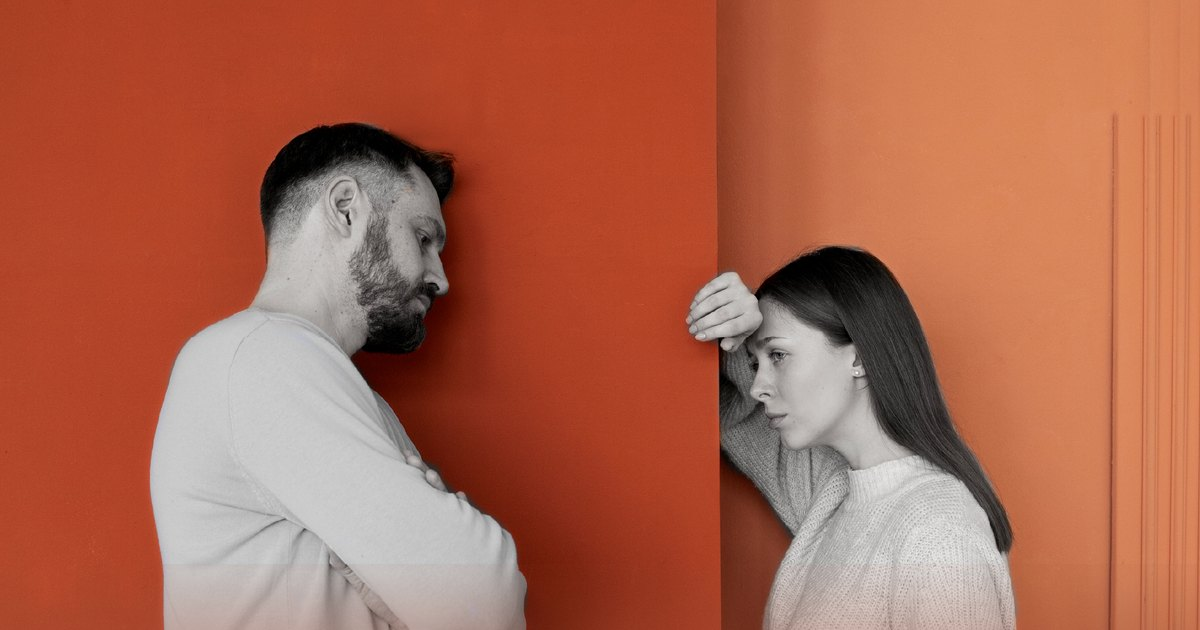
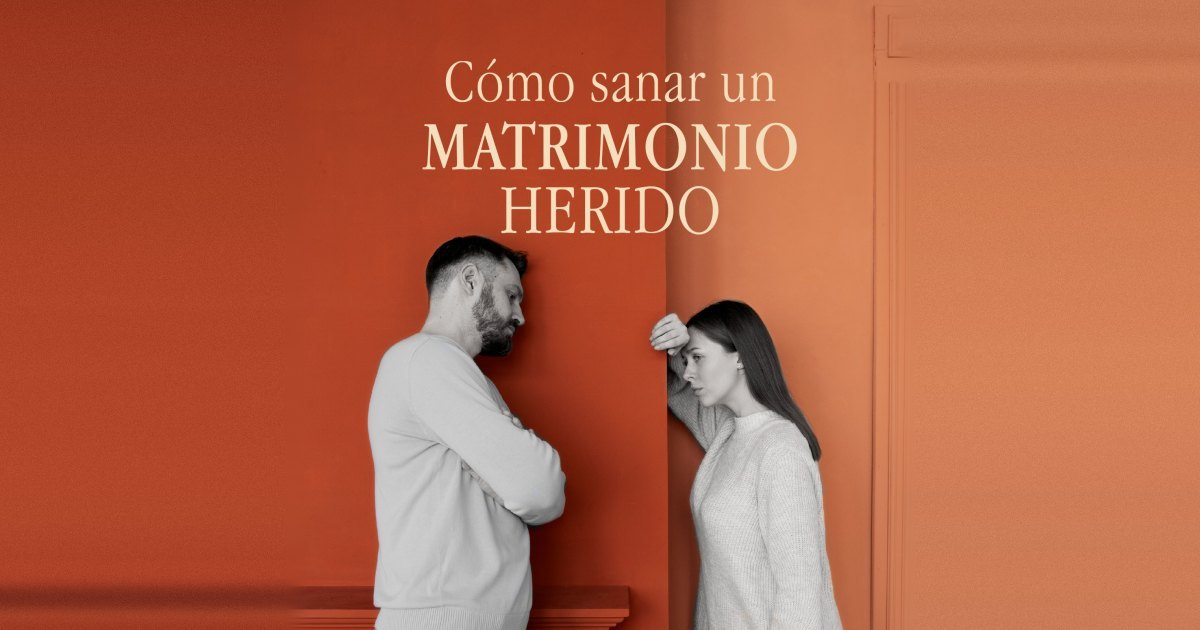
feat(web): /matrimonios, el gancho primero y la miniatura v4 de Diana (#39)
La banda de hechos baja de debajo del hero a después del giro: el orden queda
hero → preguntas → dolor → giro → hechos → fortalezas. Se mueve en el DOM, sin
order de CSS. Las dos og-matrimonios-* son las v4 del insumo. Capturas
actualizadas por la orden #39: solo matrimonios.

diff --git a/apps/web/src/web/matrimonios/Matrimonios.tsx b/apps/web/src/web/matrimonios/Matrimonios.tsx
@@ -23,16 +23,23 @@ import { Cierre } from './Cierre';
  * Se reserva por WhatsApp (la bandera de Mi espacio sigue apagada): el número
  * de México en la cabecera, el menú, el pie y los botones principales; el de
  * otros países en «Desde otro país» del cierre.
+ *
+ * ── El gancho primero (orden #39, 3; pedido de Armando, D23) ─────────────
+ * Lo primero que se lee después del hero son las preguntas y el dolor; lo
+ * descriptivo va más abajo. La banda de hechos baja de debajo del hero a
+ * después del giro, antes de las fortalezas. Un solo orden en todos los anchos
+ * y en el DOM (sin `order` de CSS): el lector de pantalla lee lo mismo que el
+ * ojo. «Ver el programa ↓» sigue yendo a `#programa`.
  */
 export function Matrimonios() {
   const { t } = useTranslation();
   return (
     <Marco pagina="matrimonios" mensaje={t(CLAVE_MENSAJE_MATRIMONIOS)}>
       <Hero />
-      <Hechos />
       <Mirarse />
       <Dolor />
       <Giro />
+      <Hechos />
       <Fortalezas />
       <Frases />
       <Facilitador />

diff --git a/apps/web/src/web/matrimonios/Hechos.tsx b/apps/web/src/web/matrimonios/Hechos.tsx
@@ -9,6 +9,11 @@ import { Icono } from '../comun/Icono';
  * Inicia, horario, modalidad y duración, en el orden de la orden. Los íconos
  * son los de la casa: el calendario, el reloj, la sesión (el mismo que
  * «Modalidad» en `/merida`) y el birrete de «Formación» para los seis meses.
+ *
+ * Desde la #39 (§3) no va debajo del hero sino después del giro, antes de las
+ * fortalezas: lo descriptivo baja y el gancho sube. Queda entre el blanco del
+ * giro y el crema de las fortalezas, así que el borde lo sigue poniendo el
+ * cambio de color.
  */
 export function Hechos() {
   const { t } = useTranslation();

diff --git a/docs/informes/39/LEEME.md b/docs/informes/39/LEEME.md
@@ -1,23 +1,29 @@
-# Web · Orden Códice #39: `/matrimonios`, «El dolor…» en espejo y la miniatura v3
+# Web · Orden Códice #39: `/matrimonios`, el gancho primero, «El dolor…» en espejo y la miniatura de Diana
 
 Rama `web/39-matrimonios-dolor-y-miniatura`, desde `main` (`c984ed7`). Toca `apps/web` y una clave de `web.json` (el alt de la foto nueva).
 
 **Qué se hizo**
-- **`#dolor` en dos filas espejo.** Las dos filas usan la misma rejilla y la misma foto 3:2. La fila 1 no cambia. La fila 2 lleva los dos párrafos a la izquierda y `dolor-hijo-mirando` a la derecha.
+- **§1 · `#dolor` en dos filas espejo** (primer commit). Las dos filas usan la misma rejilla y la misma foto 3:2. La fila 1 no cambia. La fila 2 lleva los dos párrafos a la izquierda y `dolor-hijo-mirando` a la derecha.
   - Medido a 1440: las dos fotos dan **608×405** y cada una toca el borde de la rejilla (x 72 y 1368).
   - El texto va centrado en vertical contra su foto, sin línea entre filas, y la cita queda alineada a la rejilla.
   - En el teléfono, las dos filas muestran primero la foto.
   - `dolor-hijo` (la vertical) salió de la página y de `public/`; queda de reserva en los insumos.
-- **La miniatura v3**: los dos `og-matrimonios-*.jpg` del insumo, con los mismos nombres. La `?v=` cambió sola: 630 `f5c2791f` → `20296c8d`, 1200 `1f613b29` → `3d37800f`. El alt no cambió.
+- **§2 · La miniatura v4, la de Diana.** Los dos `og-matrimonios-*.jpg` del insumo, con los mismos nombres (1200×630 y 1200×1200, verificados). La `?v=` cambió sola: 630 `20296c8d` → `9e471f2c`, 1200 `3d37800f` → `15d94dcc`. El alt no cambió. (La v3 entró en el primer commit y la v4 la reemplaza en el segundo.)
+- **§3 · El gancho primero.** El orden nuevo, el mismo en todos los anchos: hero → «¿Hace cuánto tiempo…?» → «El dolor…» → giro con botón → banda de hechos → fortalezas → frases → facilitador → cierre.
+  - Se movió `<Hechos />` en `Matrimonios.tsx`, en el DOM: sin `order` de CSS y sin duplicados. «Ver el programa ↓» sigue apuntando a `#programa` (las fortalezas).
+
+**Uniones de fondo** (medidas en el navegador, en el orden del DOM)
+- Hero (crema) → «¿Hace cuánto…?» (foto con velo crema; en el teléfono, la foto ocupa la primera pantalla y debajo va crema). Antes las separaba la banda de hechos. Ahora el borde lo marca la foto, igual que en «¿Te suena?» de `/merida`. No hizo falta tocar nada.
+- «El dolor…» (cálido) → giro (blanco): no cambia.
+- Giro (blanco) → hechos (cálido) → fortalezas (crema): tres tonos distintos, el borde lo pone el cambio de color. Ninguna unión nueva junta dos secciones del mismo tono.
+- Ya venían así y no los toca esta orden: fortalezas → frases (las dos crema) y facilitador → cierre (las dos terracota; el cierre lleva foto).
 
 **Verificación**
 - **Gate verde:** 828 tests, 65 en Chromium, 0 saltados.
 - **Huellas:** 42 imágenes en `/matrimonios`, las tres nuevas incluidas.
-- **`check:altura`:** `#dolor` mide 1,45 pantallas a 1440×900 (había dado 1,48), así que **no hizo falta achicar las fotos**. A 1920 mide 1,31.
-- **`check:renglones`:** sin huérfanos a los cuatro anchos.
-- **Fidelidad: capturas actualizadas por la orden #39.** Solo cambia `matrimonios`: las imágenes a 1440/900/390 y las dos `?v=` en la cabeza. El texto visible no cambia.
-- Capturas en esta carpeta: `dolor-1440.jpg` y `dolor-390.jpg`. Las genera `apps/web/check/capturas-39.mjs`, que además mide las dos fotos.
+- **`check:altura`:** verde. `#dolor` mide 1308 px = **1,45 pantallas** a 1440×900, así que no hizo falta achicar las fotos.
+- **`check:acento`:** verde (320 elementos). **`check:contraste`:** 0 pares bajo el umbral (312 pares, 149 sobre foto). **`check:renglones`:** sin huérfanos a los cuatro anchos.
+- **Fidelidad: capturas actualizadas por la orden #39.** Solo cambia `matrimonios`: las imágenes a 1440/900/390, las dos `?v=` en la cabeza y, en el texto, la línea de la banda de hechos, que se mueve de lugar sin cambiar una palabra.
+- Capturas en esta carpeta: `matrimonios-1440.jpg` y `matrimonios-390.jpg` (la página entera, con el orden nuevo), y `dolor-1440.jpg` y `dolor-390.jpg`. Las genera `apps/web/check/capturas-39.mjs`.
 
 **Aparte, en un commit propio:** el PR #60 se mergeó con `check:tokens` en rojo. Mi script `apps/familia/check/molde-37-pr1.mjs` escribía a mano cuatro hex del `design.json`; corrí ese guardián antes de escribir el script y no después. Ahora el script lee los valores del `design.json`. `check:tokens` vuelve al verde y el script sigue pasando.
-
-**Para mirar:** en `og-matrimonios-1200x630.jpg` (el del insumo, sin tocar) hay una franja horizontal un poco más clara cerca del borde de abajo, a la altura de los suéteres (y≈565). Parece una costura del retoque. Vale revisarla antes de verificar con Facebook y WhatsApp.
